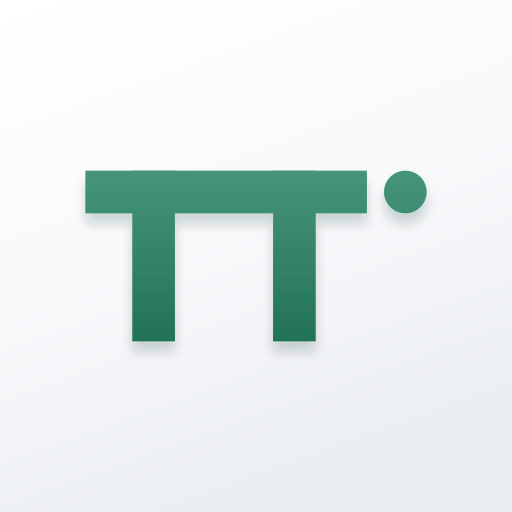
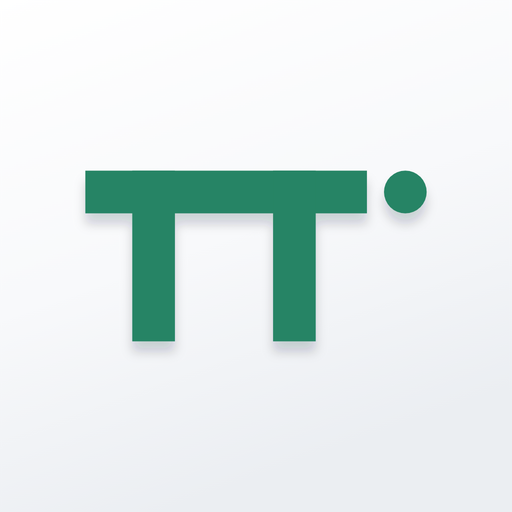
SATTO: アイコンのTT・をグラデーションなしの単色に
Claude-Session: https://claude.ai/code/session_01XBEK1zKb41iJAhumqLVeqb

Changed region(s): [[0.1562, 0.3125, 0.7188, 0.4062], [0.75, 0.3125, 0.8438, 0.4062]]

diff --git a/kyomo/field/assets/logo.js b/kyomo/field/assets/logo.js
@@ -12,7 +12,7 @@
       opt = opt || {}; h = h || 18;
       var t = Math.round(h * 1.75);
       return '<span class="logo" role="img" aria-label="SATTO' + (opt.sub ? ' ' + opt.sub : '') + '">' +
-        (opt.icon === false ? '' : '<img class="tile" src="' + dir + 'satto-icon.svg" width="' + t + '" height="' + t + '" alt="">') +
+        (opt.icon === false ? '' : '<img class="tile" src="' + dir + 'satto-icon.svg?v=3" width="' + t + '" height="' + t + '" alt="">') +
         mark(h) + (opt.sub ? '<span class="sub">' + opt.sub + '</span>' : '') + '</span>';
     }
   };

diff --git a/kyomo/test-b/assets/logo.js b/kyomo/test-b/assets/logo.js
@@ -12,7 +12,7 @@
       opt = opt || {}; h = h || 18;
       var t = Math.round(h * 1.75);
       return '<span class="logo" role="img" aria-label="SATTO' + (opt.sub ? ' ' + opt.sub : '') + '">' +
-        (opt.icon === false ? '' : '<img class="tile" src="' + dir + 'satto-icon.svg" width="' + t + '" height="' + t + '" alt="">') +
+        (opt.icon === false ? '' : '<img class="tile" src="' + dir + 'satto-icon.svg?v=3" width="' + t + '" height="' + t + '" alt="">') +
         mark(h) + (opt.sub ? '<span class="sub">' + opt.sub + '</span>' : '') + '</span>';
     }
   };

diff --git a/kyomo/field/admin/index.html b/kyomo/field/admin/index.html
@@ -93,7 +93,7 @@ tr.cold td { background: var(--amber-soft); }
 <div id="overlay"></div>
 <div id="toast" role="status" hidden style="position:fixed;left:50%;transform:translateX(-50%);bottom:24px;background:#1B2433;color:#fff;padding:10px 16px;border-radius:6px;z-index:60;font-size:14px"></div>
 <script src="https://cdnjs.cloudflare.com/ajax/libs/leaflet/1.9.4/leaflet.min.js"></script>
-<script src="../assets/logo.js?v=s2"></script>
+<script src="../assets/logo.js?v=s3"></script>
 <script src="../assets/field.js?v=f1"></script>
 <script>
 (function () {

diff --git a/kyomo/test-b/client/index.html b/kyomo/test-b/client/index.html
@@ -61,7 +61,7 @@ td { padding: 9px 12px; border-top: 1px solid var(--line); white-space: nowrap; 
 <aside class="side" id="side"></aside>
 <main class="content" id="content"></main>
 <div id="overlay"></div>
-<script src="../assets/logo.js?v=s2"></script>
+<script src="../assets/logo.js?v=s3"></script>
 <script src="client-data.js?v=b1"></script>
 <script>
 /* 発注側の画面。店舗ごとの状況と委託先ごとの集計だけを読む。スタッフの情報はこの画面に届かない */

diff --git a/kyomo/test-b/itaku/index.html b/kyomo/test-b/itaku/index.html
@@ -139,7 +139,7 @@ td .locd { display: block; font-size: 12px; color: var(--muted); }
 <div id="overlay"></div>
 <div id="toast" role="status" hidden></div>
 <script src="https://cdnjs.cloudflare.com/ajax/libs/leaflet/1.9.4/leaflet.min.js"></script>
-<script src="../assets/logo.js?v=s2"></script>
+<script src="../assets/logo.js?v=s3"></script>
 <script src="../assets/core.js?v=b2"></script>
 <script>
 (function () {

diff --git a/kyomo/test-b/index.html b/kyomo/test-b/index.html
@@ -147,7 +147,7 @@
 <body>
 <div id="app"></div>
 <div id="overlay"></div>
-<script src="assets/logo.js?v=s2"></script>
+<script src="assets/logo.js?v=s3"></script>
 <script src="assets/core.js?v=b2"></script>
 <script>
 (function () {

diff --git a/kyomo/field/index.html b/kyomo/field/index.html
@@ -78,7 +78,7 @@
 <body>
 <div id="app"></div>
 <div id="overlay"></div>
-<script src="assets/logo.js?v=s2"></script>
+<script src="assets/logo.js?v=s3"></script>
 <script src="assets/field.js?v=f1"></script>
 <script>
 (function () {
